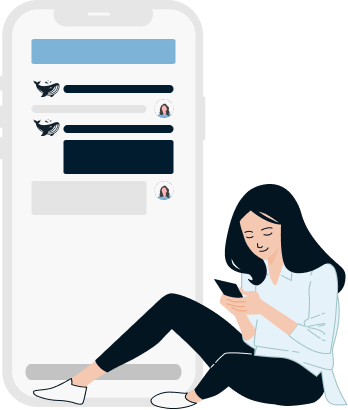
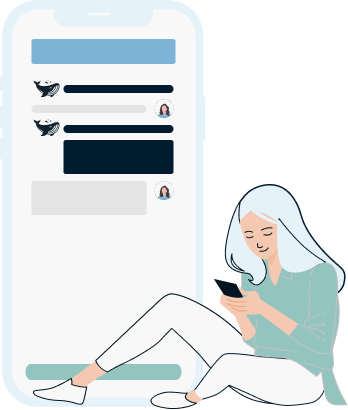
final stable

Changed region(s): [[0.0575, 0.439, 1.0, 0.9951]]

diff --git a/deepfriend/src/components/pricing-banner.tsx b/deepfriend/src/components/pricing-banner.tsx
@@ -3,25 +3,18 @@
 import { RootState } from "@/store/store";
 import { useSelector } from "react-redux";
 
-import PrivacyPolicyBackgroundDark from "../../public/backgrounds/legal-banner-background-dark.svg";
-import PrivacyPolicyBackgroundLight from "../../public/backgrounds/legal-banner-background-light.png";
-
 import PricingBannerImageWhite from "../../public/images/pricing-banner-image-white.png";
+import PricingBannerImageDark from "../../public/images/pricing-banner-image-dark.png";
 
 import Image from "next/image";
-import { CSSProperties } from "react";
 import { BASIC_DARK_COLOR, BASIC_LIGHT_COLOR } from "@/app/layout";
 
 export default function PricingBannerComponent() {
     const { systemColor } = useSelector((state: RootState) => state.systemColor);
 
-    const cardStyle: CSSProperties = {
-        //backgroundImage: `url(${systemColor === "light" ? PrivacyPolicyBackgroundLight.src : PrivacyPolicyBackgroundDark.src})`,
-    };
-
     return (
         <div className="page-banner-wrapper">
-            <div className="page-banner-container" style={cardStyle}>
+            <div className="page-banner-container">
                 <div className="page-banner-letters-0-container" style={{ color: systemColor === "light" ? BASIC_DARK_COLOR : BASIC_LIGHT_COLOR }}>
                     <h1 className="home-properties-1-title">
                         Try the welcome Package for
@@ -31,7 +24,7 @@ export default function PricingBannerComponent() {
                 <div className="page-banner-image-container">
                     <Image
                         alt="DF Pricing banner image"
-                        src={systemColor === "light" ? PricingBannerImageWhite : PricingBannerImageWhite}
+                        src={systemColor === "light" ? PricingBannerImageDark : PricingBannerImageWhite}
                         className="pricing-banner-image-image"
                     />
                 </div>

diff --git a/deepfriend/src/components/about-banner.tsx b/deepfriend/src/components/about-banner.tsx
@@ -4,21 +4,17 @@ import { RootState } from "@/store/store";
 import { useSelector } from "react-redux";
 
 import AboutBannerImageWhite from "../../public/images/about-banner-image-white.png";
+import AboutBannerImageDark from "../../public/images/about-banner-image-dark.png";
 
 import Image from "next/image";
-import { CSSProperties } from "react";
 import { BASIC_DARK_COLOR, BASIC_LIGHT_COLOR } from "@/app/layout";
 
 export default function AboutBannerComponent() {
     const { systemColor } = useSelector((state: RootState) => state.systemColor);
 
-    const cardStyle: CSSProperties = {
-        //backgroundImage: `url(${systemColor === "light" ? PrivacyPolicyBackgroundLight.src : PrivacyPolicyBackgroundDark.src})`,
-    };
-
     return (
         <div className="page-banner-wrapper">
-            <div className="page-banner-container" style={cardStyle}>
+            <div className="page-banner-container">
                 <div className="page-banner-letters-0-container" style={{ color: systemColor === "light" ? BASIC_DARK_COLOR : BASIC_LIGHT_COLOR }}>
                     <h1 className="home-properties-1-title">
                         Meet our team
@@ -29,7 +25,7 @@ export default function AboutBannerComponent() {
                 <div className="page-banner-image-container">
                     <Image
                         alt="DF About banner image"
-                        src={systemColor === "light" ? AboutBannerImageWhite : AboutBannerImageWhite}
+                        src={systemColor === "light" ? AboutBannerImageWhite : AboutBannerImageDark}
                         className="about-banner-image-image"
                     />
                 </div>

diff --git a/deepfriend/src/styles/globals.css b/deepfriend/src/styles/globals.css
@@ -497,7 +497,6 @@ a {
 
   .home-properties-2-card-letters {
     width: 60%;
-    height: 100%;
 
     display: flex;
     flex-direction: column;
@@ -563,7 +562,7 @@ a {
     width: 40%;
 
     display: flex;
-    flex-direction: column;
+    flex-direction: row;
     justify-content: center;
     align-content: center;
 
@@ -571,6 +570,14 @@ a {
 
     margin: 0px;
     padding: 0px;
+  }
+
+  .home-properties-2-image-image {
+    width: 411.2px;
+    height: 273.6px;
+
+    align-self: "center";
+    padding: 8px;
   }
 
   .home-properties-3-wrapped {
@@ -858,7 +865,7 @@ a {
   }
 
   .privacy-policy-banner-letters-container {
-    width: 50%;
+    width: 60%;
 
     display: flex;
     flex-direction: column;
@@ -872,7 +879,7 @@ a {
   }
 
   .privacy-policy-banner-image-container {
-    width: 50%;
+    width: 40%;
 
     display: flex;
     flex-direction: column;
@@ -886,8 +893,8 @@ a {
   }
 
   .privacy-policy-banner-image-image {
-    width: 551.39px;
-    height: 276.73px;
+    width: 413.54px;
+    height: 207.54px;
 
     align-self: center;
   }
@@ -2147,7 +2154,7 @@ a {
     width: 100%;
 
     display: flex;
-    flex-direction: column;
+    flex-direction: row;
     justify-content: center;
     align-content: center;
 
@@ -2155,6 +2162,14 @@ a {
 
     margin: 0px;
     padding: 0px;
+  }
+
+  .home-properties-2-image-image {
+    width: 254px;
+    height: 171px;
+    
+    align-self: "center";
+    padding: 8px;
   }
 
   .home-properties-3-wrapped {

diff --git a/deepfriend/src/components/privacy-policy-banner.tsx b/deepfriend/src/components/privacy-policy-banner.tsx
@@ -7,7 +7,7 @@ import PrivacyPolicyBackgroundDark from "../../public/backgrounds/legal-banner-b
 import PrivacyPolicyBackgroundLight from "../../public/backgrounds/legal-banner-background-light.png";
 
 import PrivacyPolicyImageWhite from "../../public/images/privacy-policy-banner-image-white.png";
-import PrivacyPolicyImageDark from "../../public/images/privacy-policy-banner-image-white.png";
+import PrivacyPolicyImageDark from "../../public/images/privacy-policy-banner-image-dark.png";
 
 import Image from "next/image";
 import { CSSProperties } from "react";
@@ -34,7 +34,6 @@ export default function PrivacyPolicyBannerComponent() {
                 <div className="privacy-policy-banner-image-container">
                     <Image
                         alt="DF Privacy Policy image"
-                        layout="responsive"
                         src={systemColor === "light" ? PrivacyPolicyImageWhite : PrivacyPolicyImageDark}
                         className="privacy-policy-banner-image-image"
                     />

diff --git a/deepfriend/src/components/contact-banner.tsx b/deepfriend/src/components/contact-banner.tsx
@@ -4,6 +4,7 @@ import { RootState } from "@/store/store";
 import { useSelector } from "react-redux";
 
 import ContactBannerImageWhite from "../../public/images/contact-banner-image-white.png";
+import ContactBannerImageDark from "../../public/images/contact-banner-image-dark.png";
 
 import Image from "next/image";
 import { BASIC_DARK_COLOR, BASIC_LIGHT_COLOR } from "@/app/layout";
@@ -22,7 +23,7 @@ export default function ContactBannerComponent() {
                 <div className="page-banner-image-container">
                     <Image
                         alt="DF Contact banner image"
-                        src={systemColor === "light" ? ContactBannerImageWhite : ContactBannerImageWhite}
+                        src={systemColor === "light" ? ContactBannerImageWhite : ContactBannerImageDark}
                         className="contact-banner-image-image"
                     />
                 </div>

diff --git a/deepfriend/src/components/home-properties-2.tsx b/deepfriend/src/components/home-properties-2.tsx
@@ -21,7 +21,8 @@ export default function HomeProperties2Component() {
   const imageStyle: CSSProperties = {
     width: 514,
     height: 342,
-    alignSelf: "center"
+    alignSelf: "center",
+    padding: 24
   };
 
   const imageLetters0Style: CSSProperties = {
@@ -33,7 +34,7 @@ export default function HomeProperties2Component() {
   const imageLetters1Style: CSSProperties = {
     width: 157.5,
     height: 52.5,
-    alignSelf: "center"
+    alignSelf: "center",
   };
 
   return (
@@ -43,8 +44,7 @@ export default function HomeProperties2Component() {
           <Image
             alt="DF Web icon"
             src={systemColor === "dark" ? ImageProperties2Dark : ImageProperties2White}
-            layout="responsive"
-            style={imageStyle}
+            className="home-properties-2-image-image"
           />
         </div>
         <div className="home-properties-2-card-letters">

diff --git a/deepfriend/src/components/pricing-properties-1.tsx b/deepfriend/src/components/pricing-properties-1.tsx
@@ -5,10 +5,11 @@ import { useSelector } from "react-redux";
 import { RootState } from "@/store/store";
 
 import PricingProperties1MessageWhite from "../../public/images/pricing-properties-1-message-white.png";
-import PricingProperties1MessageDark from "../../public/images/pricing-properties-1-message-white.png";
+import PricingProperties1MessageDark from "../../public/images/pricing-properties-1-message-dark.png";
 
 import PricingProperties1AudioWhite from "../../public/images/pricing-properties-1-audio-white.png";
-import PricingProperties1AudioDark from "../../public/images/pricing-properties-1-audio-white.png";
+import PricingProperties1AudioDark from "../../public/images/pricing-properties-1-audio-dark.png";
+
 import { BASIC_DARK_COLOR, BASIC_LIGHT_COLOR } from "@/app/layout";
 
 export default function PricingProperties1Component() {

diff --git a/deepfriend/src/components/home-properties-4.tsx b/deepfriend/src/components/home-properties-4.tsx
@@ -64,7 +64,7 @@ export default function HomeProperties4Component() {
           </h1>
           <h1 className="home-properties-4-card-money-text">
             <strong style={{ fontSize: 54, marginRight: 4 }}>
-              $30
+              $29
             </strong>
             per month
           </h1>
@@ -93,7 +93,7 @@ export default function HomeProperties4Component() {
           </h1>
           <h1 className="home-properties-4-card-money-text">
             <strong style={{ fontSize: 54, marginRight: 4 }}>
-              $50
+              $57
             </strong>
             per month
           </h1>

diff --git a/deepfriend/src/components/legal-terms-banner.tsx b/deepfriend/src/components/legal-terms-banner.tsx
@@ -7,7 +7,7 @@ import PrivacyPolicyBackgroundDark from "../../public/backgrounds/legal-banner-b
 import PrivacyPolicyBackgroundLight from "../../public/backgrounds/legal-banner-background-light.png";
 
 import LegalTermsImageWhite from "../../public/images/legal-terms-banner-image-white.png";
-import LegalTermsImageDark from "../../public/images/legal-terms-banner-image-white.png";
+import LegalTermsImageDark from "../../public/images/legal-terms-banner-image-dark.png";
 
 import Image from "next/image";
 import { CSSProperties } from "react";
